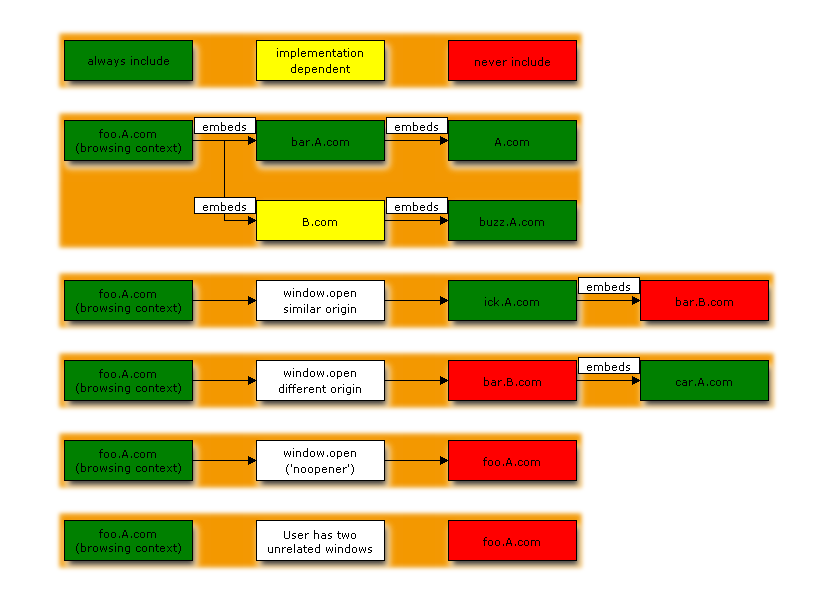
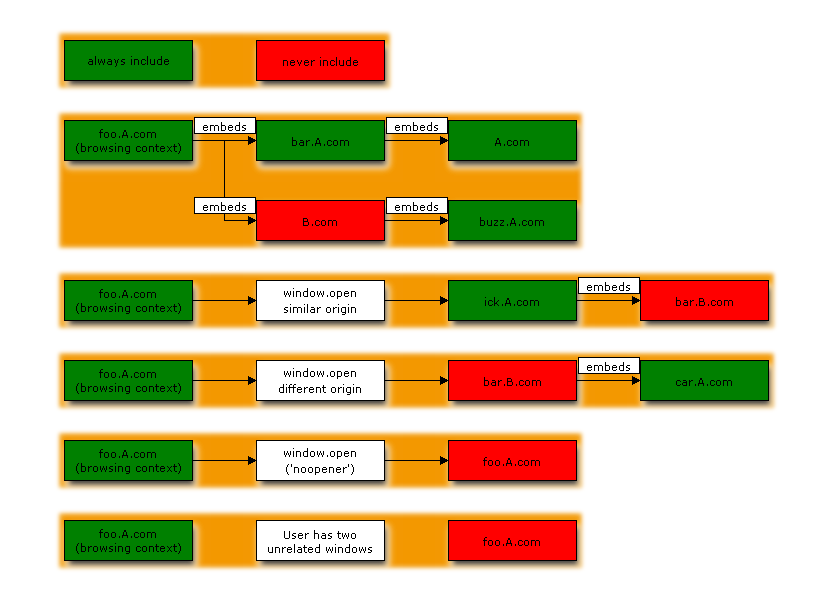
More comments from Jason Miller

Changed region(s): [[0.2812, 0.03, 0.7188, 0.15], [0.2812, 0.33, 0.4688, 0.42]]

diff --git a/explainer.md b/explainer.md
@@ -143,9 +143,8 @@ The following three statements are equivalent:
     (without "noopener").
   * Two origins are similar if they share the same eTLD+1.
 
-Ideally, memory estimate would exclude memory from different-origin iframes
-in the same window. Since browsers may not be able to implement this, this is
-explicitly a non-requirement.
+Memory estimate should always exclude memory from different-origin (non-similar)
+iframes.
 
 See [Appendix D](#appendix-d) for examples.
 
